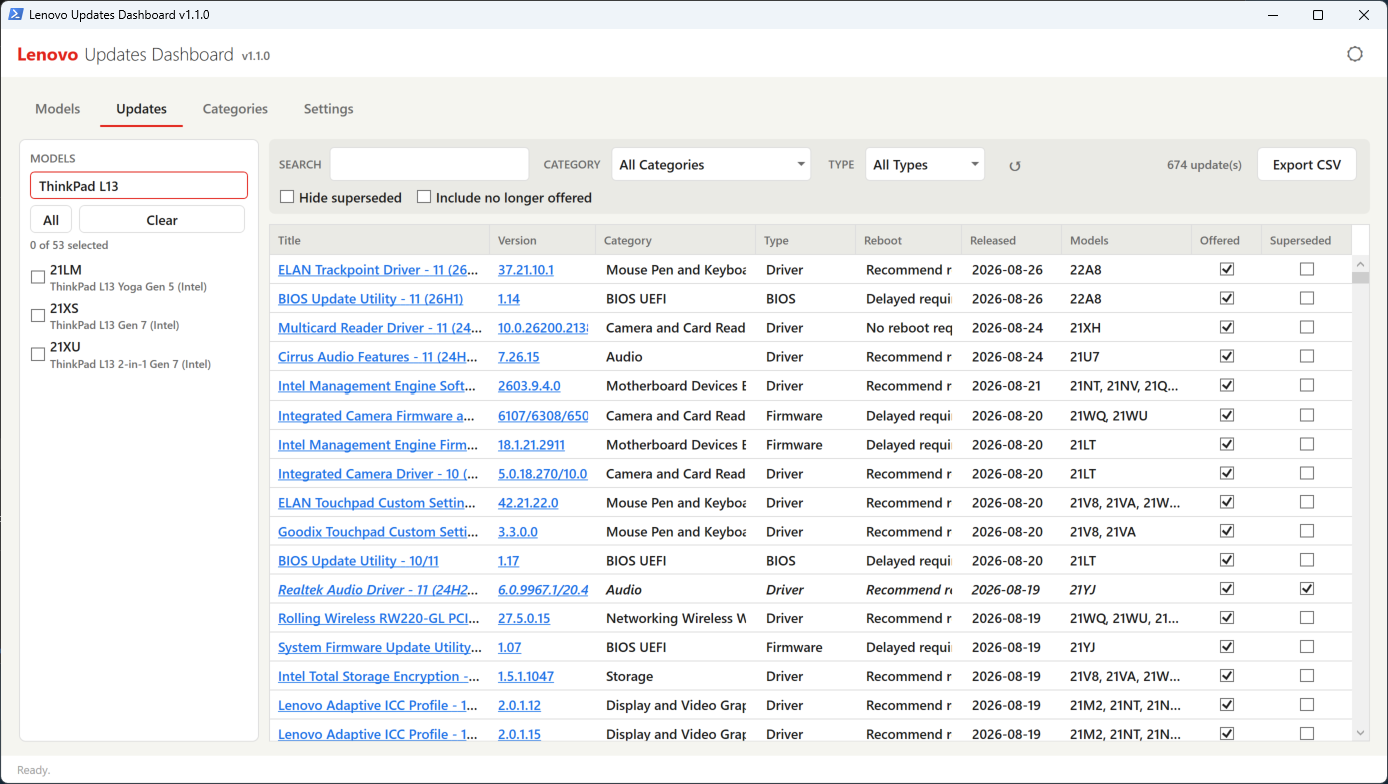
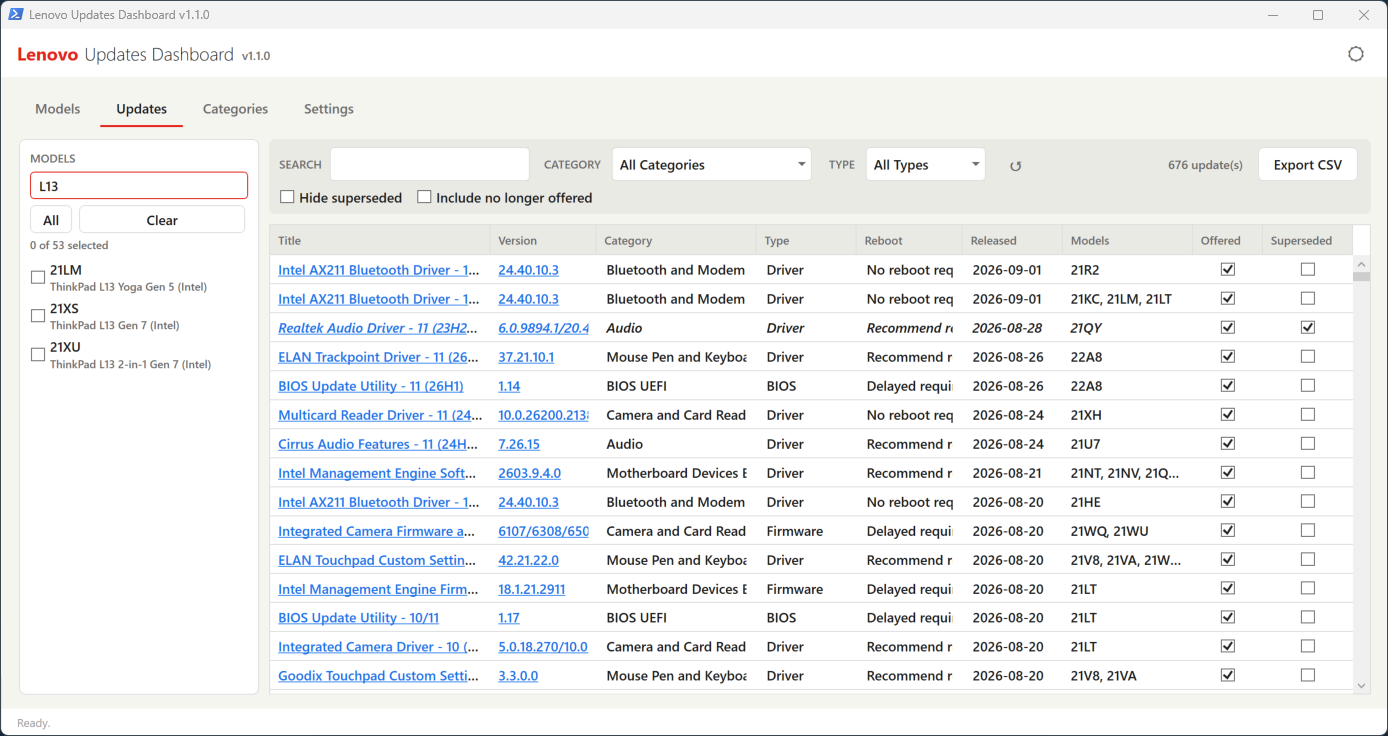
publish Lenovo Updates Dashboard

diff --git a/docs/posts/lenovo_updates_dashboard.md b/docs/posts/lenovo_updates_dashboard.md
@@ -1,7 +1,7 @@
 ---
 date:
     created: 2026-08-25
-    updated: 2026-08-30
+    updated: 2026-09-03
 authors:
     - Joe
 categories:
@@ -33,7 +33,7 @@ From there you can browse, search, filter across models, and export. Each row is
 | **Offered** | Ticked while the package is still in at least one selected model's catalog. |
 | **Superseded** | Ticked when a newer version of the same package exists. |
 
-Rows for packages Lenovo no longer offers are greyed out, and superseded versions are shown in italics. **Latest only** hides superseded versions; **Include no longer offered** brings withdrawn packages back into view so you can see what a model used to be offered. **Export CSV** writes exactly the rows currently displayed.
+Rows for packages Lenovo no longer offers are greyed out, and superseded versions are shown in italics. **Hide superseded** hides superseded versions; **Include no longer offered** brings withdrawn packages back into view so you can see updates a model used to be offered. **Export CSV** writes exactly the rows currently displayed.
 
 The **Categories** tab is a cross-model rollup of how many records you have collected all-time against how many are currently offered per category, which is the fastest way to spot where the churn in your fleet is. Double-click a category to jump to the Updates tab filtered to it.
 
@@ -44,7 +44,7 @@ The **Categories** tab is a cross-model rollup of how many records you have coll
 
 | Requirement | Detail |
 | --- | --- |
-| Operating system | Windows 10 or Windows 11 |
+| Operating system | Windows 11 |
 | PowerShell | Windows PowerShell 5.1 (built into Windows) |
 | .NET | .NET Framework 4.6 or later with WPF (built into Windows) |
 | Network | HTTPS to `download.lenovo.com` |
@@ -56,7 +56,9 @@ Catalog coverage is **Windows 11** for Lenovo commercial products: ThinkPad, Thi
 
 ## Getting started
 
-Download the package from [download link](#) and extract it anywhere you can write to, for example `C:\Tools\LenovoUpdatesDashboard`. Then launch it:
+Download the package from [download link](https://download.lenovo.com/cdrt/tools/LenovoUpdatesDashboard_1.1.0.zip). Right-click the downloaded zip file, select Properties, and make sure the file is Unblocked. Now extract it anywhere you can write to, for example `C:\Tools\LenovoUpdatesDashboard`.
+
+Then launch it from that folder:
 
 ``` powershell
 powershell.exe -STA -ExecutionPolicy Bypass -File ".\LenovoUpdatesDashboard.ps1"
@@ -64,7 +66,7 @@ powershell.exe -STA -ExecutionPolicy Bypass -File ".\LenovoUpdatesDashboard.ps1"
 
 `-STA` matters. WPF requires single-threaded apartment mode, and while the script will relaunch itself in STA when it can, supplying the switch avoids starting a second process.
 
-If your execution policy is enforced centrally and the launch is still blocked, unblock the extracted files once:
+If your execution policy is enforced centrally and the launch is still blocked (in case you did not unblock the zip file before extracting it), unblock the extracted files once:
 
 ``` powershell
 Get-ChildItem -Path . -Recurse | Unblock-File
